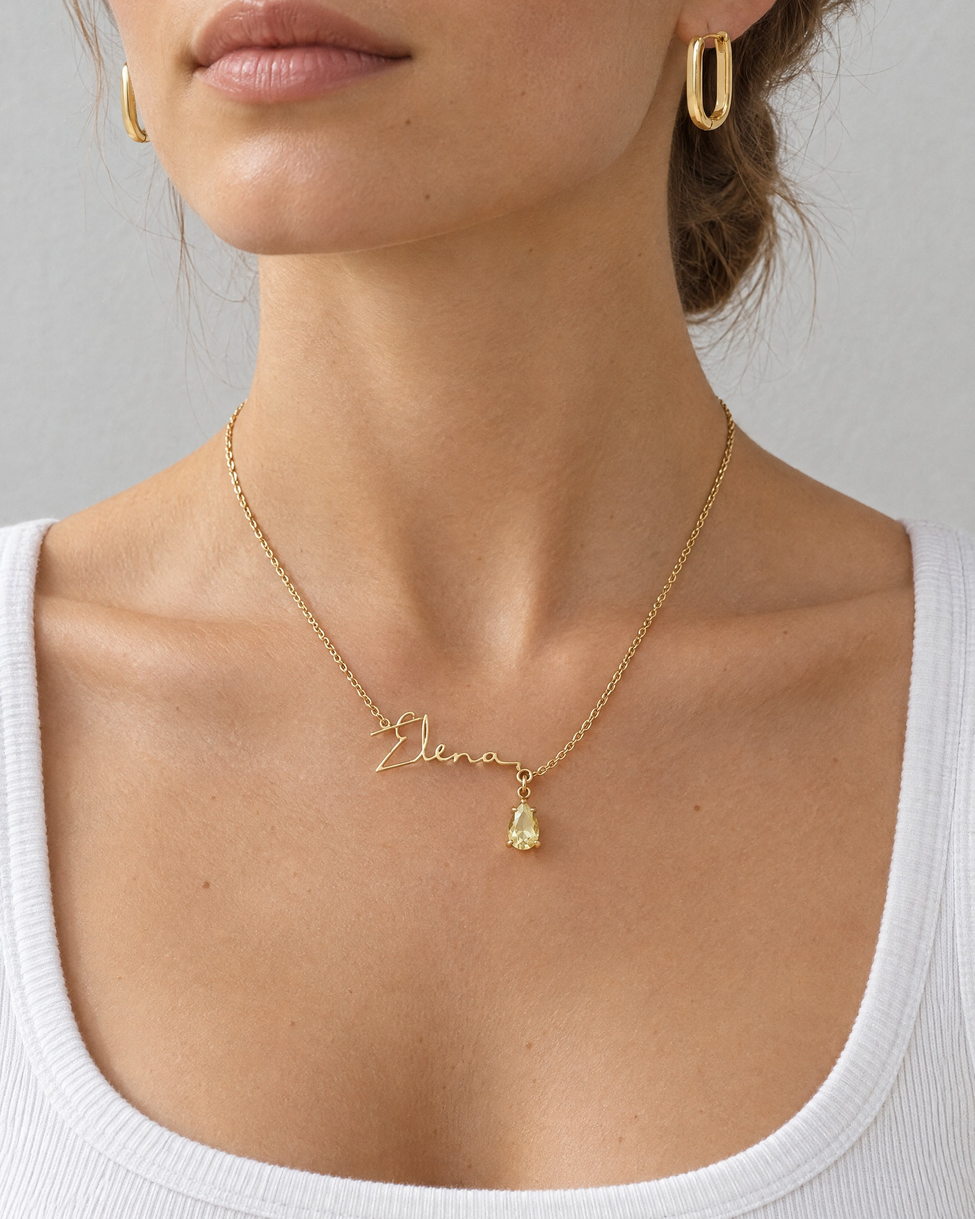
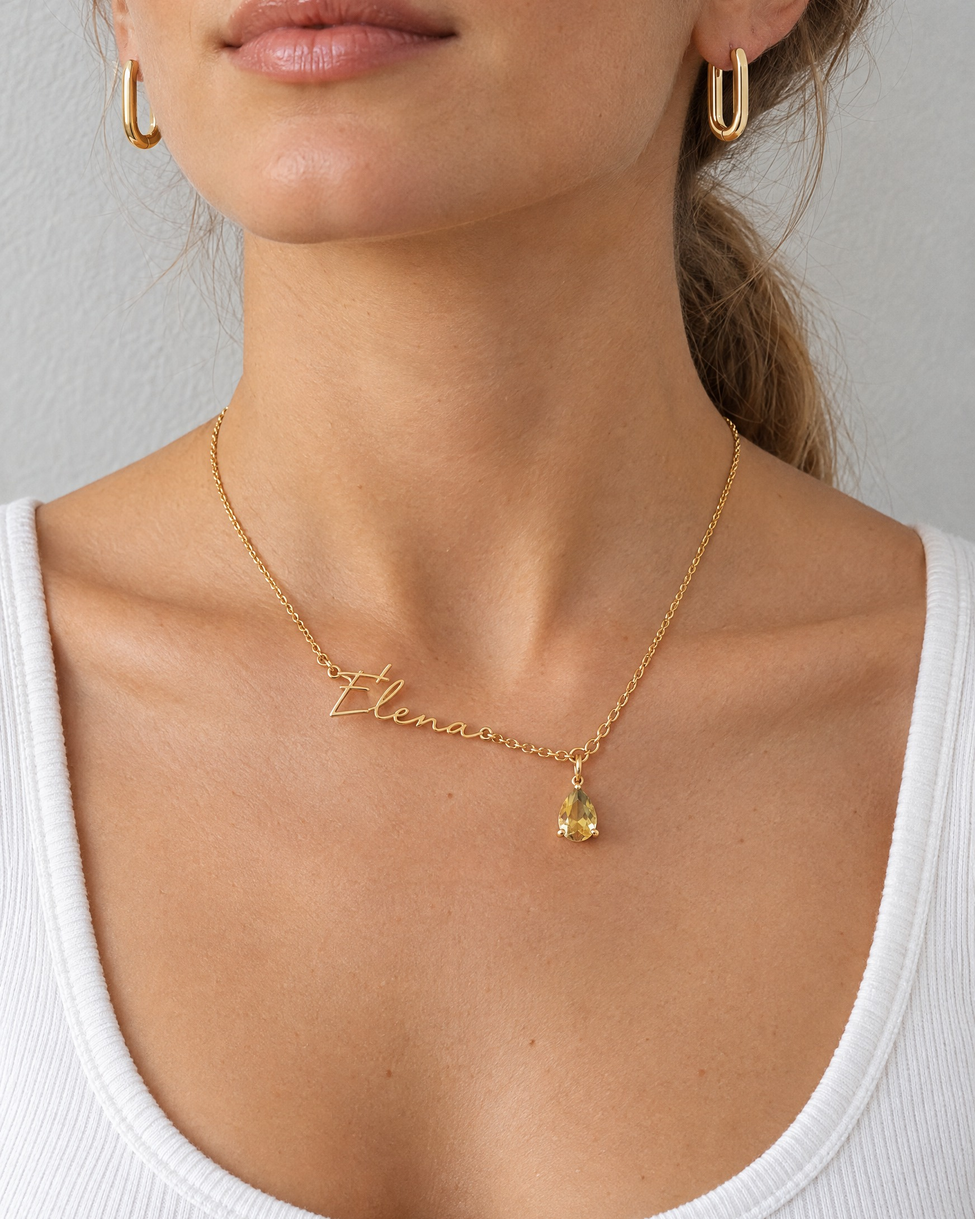
Collar Signé: fotos de Carmen y Elena rehechas con fotos reales de referencia (lágrima en la cadena, Lune a su tamaño, Nuit fino)
- marca/referencias-reales/: fotos reales del Lune, Nuit, Boucle y de las amigas; collar_ia.py las usa por defecto
- PIEZA de Lune y Nuit reescritas a partir de las reales; fuera el «small, do not make bigger»
- marca/piedras_lune.py: corrige en local las piedras del Lune que la IA pinta oscuras con vetas negras
- productos/collar_signe.py --cambiar: cambia fotos sueltas en su sitio

diff --git a/marca/collar_ia.py b/marca/collar_ia.py
@@ -2,9 +2,10 @@
 de la tienda», nada de Lucía). Producto: la foto del collar de productos/collar-signe/ cambiando el nombre y el color de
 la piedra; puesto: con otras piezas de Lunerie (aros Boucle, reloj Lune, anillo Nuit) y sin cara (corte bajo la nariz).
 API de Higgsfield (flare = GPT Image 2.5, ~0,13 $ por foto).
-    python marca/collar_ia.py <carpeta_refs> [toma ...] [--n 2]   →   marca/fotos-ia/collar/<toma>-<n>.png
-<carpeta_refs>: la primera foto de cada producto con su handle de nombre (aros-boucle.jpg, reloj-lune.jpg…).
-REVISAR SIEMPRE a tamaño real que el nombre esté bien escrito.
+    python marca/collar_ia.py [<carpeta_refs>] [toma ...] [--n 2]   →   marca/fotos-ia/collar/<toma>-<n>.png
+<carpeta_refs>: por defecto marca/referencias-reales/, con las fotos REALES de cada pieza (proveedor, amigas) con su
+handle de nombre (reloj-lune-1.jpg, reloj-lune-2.jpg…): se mandan todas las de cada pieza. Nunca fotos hechas con IA.
+REVISAR SIEMPRE a tamaño real que el nombre esté bien escrito y comparar cada pieza con su foto real.
 """
 import concurrent.futures, pathlib, sys, urllib.request
 import higgsfield_client
@@ -13,12 +14,16 @@ from portada_navidad import MODELO, PIEZA
 RAIZ = pathlib.Path(__file__).resolve().parent.parent
 SALIDA = RAIZ / "marca" / "fotos-ia" / "collar"
 COLLAR = RAIZ / "productos" / "collar-signe"
+REFS = RAIZ / "marca" / "referencias-reales"
 # 4-nov (Edu): la lágrima NO va pegada al nombre: cuelga suelta de la cadena, un poco después del final del nombre.
 DISENO = ("a fine {metal} cable-chain necklace with a first name written in a thin, flowing handwritten signature-style "
-          "script made of polished {metal} wire, set horizontally into the chain; a short length of plain chain after "
-          "the end of the name, a single faceted teardrop crystal in a small {metal} prong setting hangs on its own "
-          "tiny jump ring from the chain - the crystal is separate from the letters and never touches or attaches to them")
-NO = ("Every piece must be EXACTLY like the reference images - same shape, size and details; do not redesign them. "
+          "script made of polished {metal} wire, set horizontally into the chain like in the first reference photo: the "
+          "last letter ends in a small loop that joins the chain, and two or three links further along the chain a "
+          "single faceted teardrop crystal in a small {metal} prong setting hangs on its own bail - the crystal hangs "
+          "from the chain, separate from the letters, never touching or attached to them")
+NO = ("Every piece must be EXACTLY like the reference images - same shape, size relative to the body and details; do "
+      "not redesign them. The reference photos are real product photos: copy only the pieces named here and ignore any "
+      "other jewelry, rings or backgrounds that appear in them. "
       "The name on the necklace must be spelled exactly as given, letter by letter, and must be the only text in the "
       "image: no other text, no logos, nothing written on the watch dial. ")
 TOMAS = {
@@ -36,14 +41,17 @@ TOMAS = {
         "Quiet-luxury editorial jewelry photo in soft natural daylight against a pale grey wall. A young woman with "
         "light brown hair pulled back, wearing a white ribbed cotton tank top; the frame cuts off just below her nose, "
         "from her lips down to her chest. Around her neck she wears " + DISENO.format(metal="gold") + ", the name "
-        "reading exactly \"Elena\" and the teardrop crystal soft yellow; in her ear she wears {aros-boucle}. Natural skin "
+        "reading exactly \"Elena\" and the teardrop crystal soft yellow; in her ear she wears {aros-boucle}, one per ear, "
+        "at the same size relative to the earlobe as in the reference photo of the hoops on an ear. Natural skin "
         "texture, fine film grain. "),
     "modelo-hombro": ("3:4", [COLLAR / "collar-signe-1.jpg", "reloj-lune", "anillo-nuit"],
         "Quiet-luxury editorial jewelry photo in soft natural daylight against a warm off-white wall. A young woman in "
         "a white strapless top rests one hand on her opposite shoulder; the frame cuts off just below her nose, from "
         "her lips down to her chest. Around her neck she wears " + DISENO.format(metal="gold") + ", the name reading "
         "exactly \"Carmen\" and the teardrop crystal green. On the wrist of the hand on her shoulder she wears "
-        "{reloj-lune}, and on one finger {anillo-nuit}. Natural skin texture, fine film grain. "),
+        "{reloj-lune}; the watch faces the camera and keeps the same size relative to the wrist as in the reference "
+        "photo of the watch on a wrist. On her ring finger she wears {anillo-nuit}, at the same size relative to the "
+        "finger as in the reference photo of the rings on a hand. Natural skin texture, fine film grain. "),
 }
 
 
@@ -52,7 +60,8 @@ def generar(toma, n, refs_dir):
     rutas = []
     for r in refs:
         if isinstance(r, str):
-            escena = escena.replace("{" + r + "}", PIEZA[r]); rutas.append(refs_dir / f"{r}.jpg")
+            fotos = sorted(refs_dir.glob(f"{r}-*.jpg")) or [refs_dir / f"{r}.jpg"]
+            escena = escena.replace("{" + r + "}", PIEZA[r]); rutas += fotos
         else:
             rutas.append(r)
     try:
@@ -75,8 +84,11 @@ if __name__ == "__main__":
     veces = 1
     if "--n" in args:
         i = args.index("--n"); veces = int(args[i + 1]); del args[i:i + 2]
-    refs_dir = pathlib.Path(args[0]); SALIDA.mkdir(parents=True, exist_ok=True)
-    trabajos = [(t, n) for t in (args[1:] or list(TOMAS)) for n in range(1, veces + 1)]
+    refs_dir = REFS
+    if args and pathlib.Path(args[0]).is_dir():
+        refs_dir = pathlib.Path(args.pop(0))
+    SALIDA.mkdir(parents=True, exist_ok=True)
+    trabajos = [(t, n) for t in (args or list(TOMAS)) for n in range(1, veces + 1)]
     with concurrent.futures.ThreadPoolExecutor(max_workers=8) as ex:
         for toma, r in ex.map(lambda tn: generar(tn[0], tn[1], refs_dir), trabajos):
             print(toma, "->", r)

diff --git a/marca/portada_navidad.py b/marca/portada_navidad.py
@@ -16,14 +16,22 @@ SALIDA = RAIZ / "marca" / "fotos-ia" / "portada-navidad"
 
 # Cómo es cada pieza de verdad (para que la IA no la rediseñe)
 PIEZA = {
-    "reloj-lune": "a small gold watch with a tiny oval white dial on a thin gold bracelet that holds exactly six oval "
-                  "dark-green stones with light veins, three on each side of the dial, each in a gold bezel",
+    # 4-nov (Edu): sacado de las fotos reales (marca/referencias-reales/), no de las de IA; en la muñeca es más grande
+    # de lo que lo pintaba («small/tiny» fuera)
+    "reloj-lune": "a vintage gold watch with an oval case framed by a twisted rope-pattern gold bezel, a small crown on "
+                  "the side and a white oval dial with thin gold baton markers and gold hands; the bracelet is made of "
+                  "oval gold links, each holding one oval dark-green stone with light veins in a rope-textured gold "
+                  "frame - exactly three on each side of the case, all six the same green - joined by short hinged gold "
+                  "links. On the wrist the oval case covers about half the width of the top of the wrist",
     "reloj-galet": "an oval watch with a thick, rounded, highly polished gold case like a smooth pebble, a white dial "
                    "with gold Roman numerals, on a bracelet of polished three-row gold links",
     "reloj-maille": "a small oval gold watch with a white dial on a narrow bracelet of fine gold woven mesh",
     "reloj-sepia": "a small rectangular gold watch with a cream dial and black Roman numerals on a plain brown "
                    "leather strap",
-    "anillo-nuit": "a chunky gold signet ring set with one large marquise-shaped olive-green stone",
+    "anillo-nuit": "a slim polished gold signet ring whose smooth rounded top tapers into a thin band, set with one "
+                   "marquise-cut faceted olive-green crystal held flush in a thin smooth gold bezel, its two points "
+                   "aligned with the finger (one towards the fingertip); the stone is a little shorter than the finger "
+                   "is wide - elegant and delicate, not chunky or oversized",
     "collar-lune": "a very fine gold chain necklace with small round coloured stones (red, blue, green, pink) set "
                    "directly in line into the chain at intervals - the stones are part of the chain, never hanging",
     "pendientes-larme": "small gold huggie hoop earrings, each with one dangling emerald-green teardrop crystal",

diff --git a/marca/piedras_lune.py b/marca/piedras_lune.py
@@ -1,0 +1,36 @@
+"""Piedras del reloj Lune en fotos de IA: la IA las pinta verde oscuro con vetas negras; las reales son verde medio con
+vetas claras (marca/referencias-reales/reloj-lune-2.jpg). Cambia solo las piedras dentro de un recuadro (el del reloj).
+    python marca/piedras_lune.py <entrada.png> <salida.png> x0 y0 x1 y1      (píxeles de la imagen original)
+Revisar después a tamaño real junto a la foto real; guarda también <salida>-mask.png para ver qué ha tocado.
+"""
+import sys, cv2, numpy as np
+src, dst, x0, y0, x1, y1 = sys.argv[1], sys.argv[2], *map(int, sys.argv[3:7])
+im = cv2.imread(src); roi = im[y0:y1, x0:x1].copy()
+lab = cv2.cvtColor(roi, cv2.COLOR_BGR2LAB).astype(np.float32)
+L, A, B = lab[..., 0], lab[..., 1], lab[..., 2]
+cand = ((A < 125) & (L < 150)).astype(np.uint8) * 255
+cand = cv2.morphologyEx(cand, cv2.MORPH_CLOSE, np.ones((3, 3), np.uint8))
+n, labl, st, _ = cv2.connectedComponentsWithStats(cand)
+mask = np.zeros_like(cand)
+for i in range(1, n):
+    comp = labl == i
+    if st[i, cv2.CC_STAT_AREA] < 80 or A[comp].mean() > 124:   # fuera el aro oscuro de la esfera (neutro)
+        continue
+    cs, _ = cv2.findContours(comp.astype(np.uint8) * 255, cv2.RETR_EXTERNAL, cv2.CHAIN_APPROX_NONE)
+    cv2.drawContours(mask, cs, -1, 255, -1)
+mask = cv2.erode(mask, np.ones((3, 3), np.uint8)); m = mask > 0
+cuerpo = np.array([98, 112, 143], np.float32)    # LAB OpenCV: verde medio-oscuro (≈ rgb 55,95,70)
+veta = np.array([180, 121, 140], np.float32)     # verde muy claro, casi crema
+Lm = L[m]; lo, mid, hi = np.percentile(Lm, 8), np.percentile(Lm, 55), np.percentile(Lm, 97)
+t = np.clip((mid - cv2.GaussianBlur(L, (5, 5), 0)) / max(mid - lo, 1), 0, 1) ** 0.8          # oscuro en la IA → veta clara
+sombra = (L - mid) / max(hi - mid, 1) * 25                       # conserva el relieve (cabujón)
+nuevo = cuerpo + (veta - cuerpo) * t[..., None]
+nuevo[..., 0] += np.clip(sombra, -25, 25)
+brillo = L > np.percentile(Lm, 96)                               # brillos de la IA, intactos
+nuevo = np.where(brillo[..., None], lab, nuevo)
+out = np.where(m[..., None], nuevo, lab)
+out = cv2.cvtColor(np.clip(out, 0, 255).astype(np.uint8), cv2.COLOR_LAB2BGR)
+soft = cv2.GaussianBlur(mask, (5, 5), 0)[..., None] / 255.0
+im[y0:y1, x0:x1] = (out * soft + roi * (1 - soft)).astype(np.uint8)
+cv2.imwrite(dst, im); cv2.imwrite(dst.replace(".png", "-mask.png"), mask)
+print("piedras:", int(m.sum()), "px,", sum(1 for i in range(1, n)), "manchas")

diff --git a/productos/collar_signe.py b/productos/collar_signe.py
@@ -74,8 +74,27 @@ def fotos_ia():
     print("fotos cambiadas")
 
 
+def cambiar(pares):
+    """Cambia fotos sueltas en su sitio: [(toma de marca/fotos-ia/collar, posición en la galería 1..n)].
+    Conserva posición, texto alternativo y variante (fileUpdate + originalSource)."""
+    ia = pathlib.Path(__file__).resolve().parent.parent / "marca" / "fotos-ia" / "collar"
+    salida = pathlib.Path(__file__).resolve().parent / "collar-signe"
+    M = gql('query($h: String!){ productByHandle(handle: $h){ media(first: 20){ nodes{ id alt } } } }', {"h": HANDLE})["productByHandle"]["media"]["nodes"]
+    rutas = []
+    for toma, _ in pares:
+        r = salida / f"{HANDLE}-{toma}.jpg"; crop45(Image.open(ia / f"{toma}.png").convert("RGB")).save(r, quality=92); rutas.append(r)
+    fuentes = subir(rutas)
+    gql("""mutation($f:[FileUpdateInput!]!){ fileUpdate(files:$f){ userErrors{ field message } } }""",
+        {"f": [{"id": M[pos - 1]["id"], "originalSource": s} for s, (_, pos) in zip(fuentes, pares)]}, True)
+    for (toma, pos) in pares:
+        print(f"{pos}: {M[pos - 1]['alt']}  <-  {toma}")
+
+
 if __name__ == "__main__" and sys.argv[1:] == ["--fotos-ia"]:
     fotos_ia(); sys.exit()
+
+if __name__ == "__main__" and sys.argv[1:2] == ["--cambiar"]:   # --cambiar <toma> <posición> [<toma> <posición> …]
+    a = sys.argv[2:]; cambiar([(a[i], int(a[i + 1])) for i in range(0, len(a), 2)]); sys.exit()
 
 if __name__ == "__main__":
     origen = pathlib.Path(sys.argv[1]); salida = pathlib.Path(__file__).resolve().parent / "collar-signe"

diff --git a/marca/portada_dia.py b/marca/portada_dia.py
@@ -27,8 +27,7 @@ ESTILO = ("Quiet-luxury editorial photo for a jewelry and watch brand, about wea
           "polish, minimal makeup. Shot on a full-frame camera with a 50mm lens, shallow depth of field, fine film "
           "grain, clean composition with breathing room. The jewelry and the watch are the clear focus, sharp and "
           "well lit. Every piece of jewelry and every watch must be EXACTLY like the reference images - same shape, "
-          "size, colours and details; the watches are small and delicate, do not make them bigger and do not "
-          "redesign them. No text, no logos and no brand names anywhere in the image, nothing written on the watch "
+          "size relative to the wrist, colours and details; do not redesign them. No text, no logos and no brand names anywhere in the image, nothing written on the watch "
           "dials. ")
 TOMAS = {
     # En el móvil es la grande: el reloj Lune, el anillo Nuit y el collar Lune juntos

diff --git a/CLAUDE.md b/CLAUDE.md
@@ -567,16 +567,18 @@ Solo salen si el PC está encendido con la sesión abierta; si no, la pieza sigu
 `… quitar [id]`. **Al abrir sesión: mirar el log y que las publicadas pasen a «publicado»** (y hacer commit de la cola).
 A mano (Edu): stories con pegatinas, reels con música, Facebook (Business Suite) y editar el texto de los 3 posts del
 29-oct que dicen «Lune 49,95 €».
-**LO PRIMERO EL 4-NOV (Edu, al irse a dormir):** rehacer las fotos del Collar Signé de **Carmen** y **Elena**
-(`marca/collar_ia.py modelo-hombro modelo-tirantes --n 2`, luego `python productos/collar_signe.py --fotos-ia` adaptado):
-(1) la lágrima parece pegada al nombre y en el real cuelga suelta de la cadena, después del nombre (prompt `DISENO` ya
-corregido); (2) el reloj Lune se ve muy pequeño: **es algo más grande** y yo usaba de referencia una foto hecha con IA
-(`lune-verde-producto.jpg`) y pedía «small, do not make bigger» → usar las **fotos reales** (las 2 del proveedor de la
-ficha, `S6514a93…` y `S0196b43…`, y las de las amigas `lune-opinion-1/2/3/5.jpg`) y quitar esa frase de los prompts
-(`portada_navidad.py` `PIEZA`, `portada_dia.py` `ESTILO`, `collar_ia.py`); lo mismo con Maille, Galet, Perle y Duo;
-(3) el anillo Nuit no es del todo así (mirar `anillo-nuit.jpg` a tamaño real y describirlo mejor en `PIEZA`).
-Revisar también la de Marta (producto) por lo mismo de la lágrima. Y mirar `oficina/publicaciones.log`: el 4-nov a las
-19:30 sale el primer post programado (Lune con café).
+**4-nov (hecho, en producción): fotos de Carmen y Elena del Collar Signé rehechas** con fotos REALES de referencia
+(carpeta nueva **`marca/referencias-reales/`**: `reloj-lune-1/2` del proveedor, `anillo-nuit-1/2`, `aros-boucle-1/2` y las
+de las amigas; `collar_ia.py` las usa por defecto y manda todas las de cada pieza). Lágrima colgando de la cadena 2-3
+eslabones después del nombre (como el real) · Lune con bisel trenzado y la caja ocupando ~media muñeca · Nuit fino, que
+se estrecha, piedra a lo largo del dedo. `PIEZA` de Lune y Nuit reescritas (en `portada_navidad.py`, la usan también
+`portada_dia.py` y `collar_ia.py`) y fuera el «small, do not make bigger» de `portada_dia.py`. La IA sigue pintando las
+piedras del Lune **verde oscuro con vetas negras**: se arreglan en local con **`marca/piedras_lune.py`** (OpenCV, gratis;
+verde medio con vetas claras, comparar con `reloj-lune-2.jpg`). Elegidas `modelo-hombro-1-piedras` (Carmen) y
+`modelo-tirantes-2` (Elena), cambiadas en su sitio con `python productos/collar_signe.py --cambiar <toma> <posición> …`.
+Las anteriores quedan como `*-v1.png`. La de Marta estaba bien (no se tocó). Coste: 4 fotos, ~0,52 $.
+**Falta:** fotos reales de Maille, Galet, Perle y Duo en `marca/referencias-reales/` (su 1.ª foto de ficha es de IA)
+antes de volver a usarlas en `portada_dia.py` / `portada_navidad.py`.
 
 **DÓNDE NOS QUEDAMOS (2-nov, noche) — leer esto primero; manda sobre los bloques de abajo.**
 - **EN PRODUCCIÓN (OK de Edu, 2-nov): portada en collage + BLACK FRIDAY.** `parte('hero-navidad')` en
